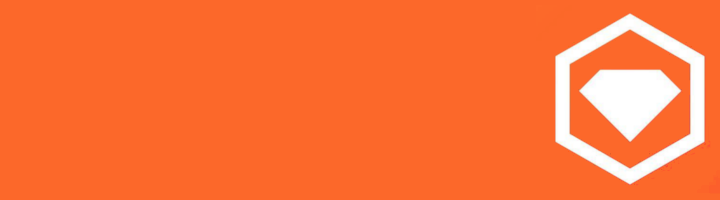
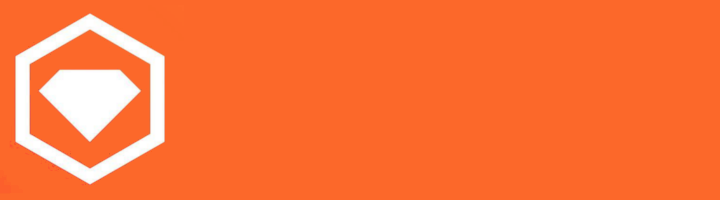
Added more HTML and CSS changes for titles

Changed region(s): [[0.0, 0.06, 0.2444, 0.93], [0.7639, 0.06, 0.9778, 0.93]]

diff --git a/_sass/page.scss b/_sass/page.scss
@@ -287,11 +287,13 @@ $button-size: 1.5rem;
 			float: left;
 			background-color: #02A9A2;
 			margin-bottom: 12px;
-			img {
-				min-width: 96%;
-				max-width: 98%;
-				border: 8px solid #fff;
+			div {
+				border: 6px solid #fff;
 				margin-bottom: 8px;
+				overflow: hidden;
+				img {
+					width: 100%;
+				}
 			}
 			p {
 				color: #fff;
@@ -304,7 +306,7 @@ $button-size: 1.5rem;
 			hr {
 				background: #FFF none repeat scroll 0% 0%;
 				margin: 4px 0px;
-				height: 6px;
+				height: 4px;
 			}
 		}
 	}
@@ -481,10 +483,13 @@ $button-size: 1.5rem;
 		float: left;
 		background-color: #02A9A2;
 		margin-bottom: 12px;
-		img {
-			width: 97%;
-			border: 8px solid #fff;
+		div {
+			border: 6px solid #fff;
 			margin-bottom: 8px;
+			overflow: hidden;
+			img {
+				width: 100%;
+			}
 		}
 		p {
 			font-size: 48px;

diff --git a/_layouts/post-index.html b/_layouts/post-index.html
@@ -51,7 +51,9 @@
           <h2 style="display: none;"><a href="{{ site.url }}{{ post.url }}" title="{{ post.title }}">{{ post.title }}</a></h2>
           <br>
           <div class="image-title">
-            <img src="{{post.image.main}}" alt="{{post.title}}" />
+            <div class="">
+              <img src="{{post.image.main}}" alt="{{post.title}}" />
+            </div>
             <hr>
             <p>
               <a href="{{ site.url }}{{ post.url }}" title="{{ post.title }}" style="color: #fff;">{{ post.title }}</a>

diff --git a/_layouts/home.html b/_layouts/home.html
@@ -42,7 +42,9 @@
         <h2 style="display: none;"><a href="{{ site.url }}{{ post.url }}" title="{{ post.title }}">{{ post.title }}</a></h2>
         <br>
         <div class="image-title">
-          <img src="{{post.image.main}}" alt="{{post.title}}" />
+          <div class="">
+            <img src="{{post.image.main}}" alt="{{post.title}}" />
+          </div>
           <hr>
           <p>
             <a href="{{ site.url }}{{ post.url }}" title="{{ post.title }}" style="color: #fff;">{{ post.title }}</a>

diff --git a/_layouts/post.html b/_layouts/post.html
@@ -42,7 +42,9 @@
     </div>
     <div class="article-wrap">
       <div class="image-title">
-        <img src="{{page.image.main}}" alt="{{page.title}}" />
+        <div class="">
+          <img src="{{page.image.main}}" alt="{{page.title}}" />
+        </div>
         <hr>
         <p>
           {{ page.title }}
